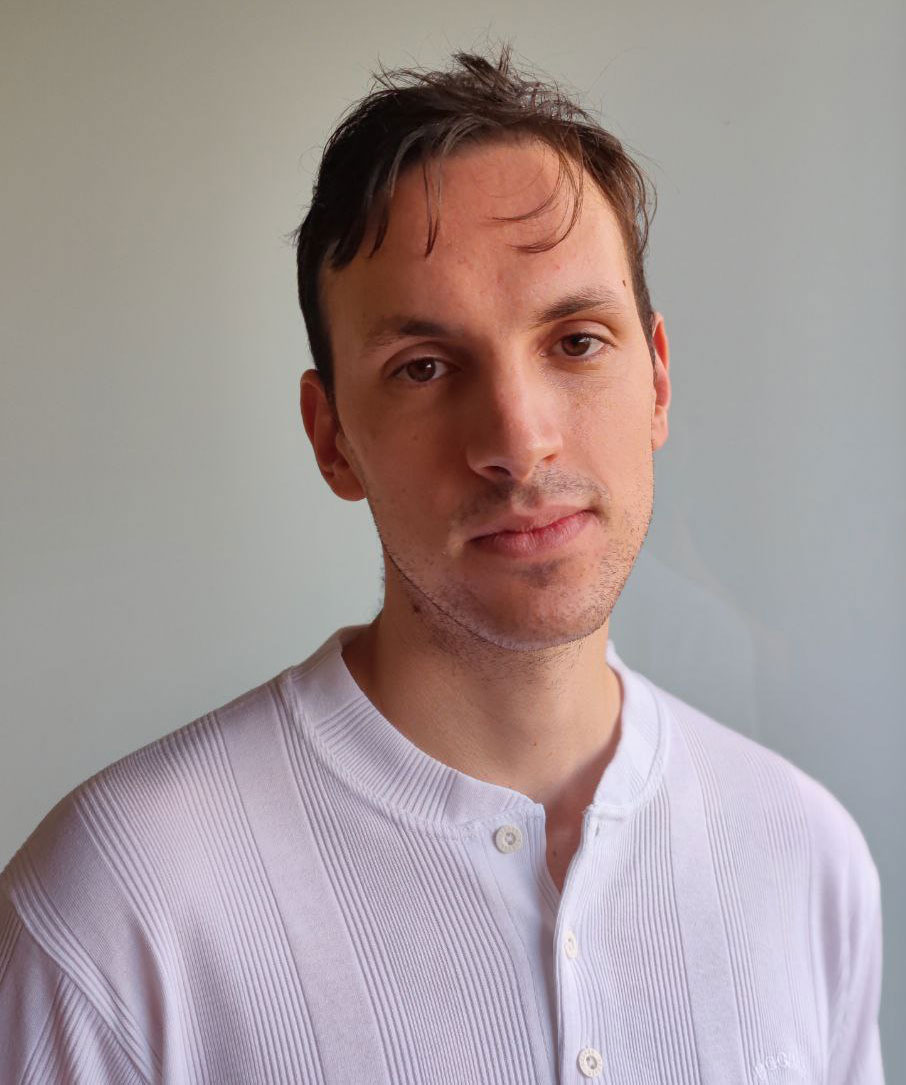
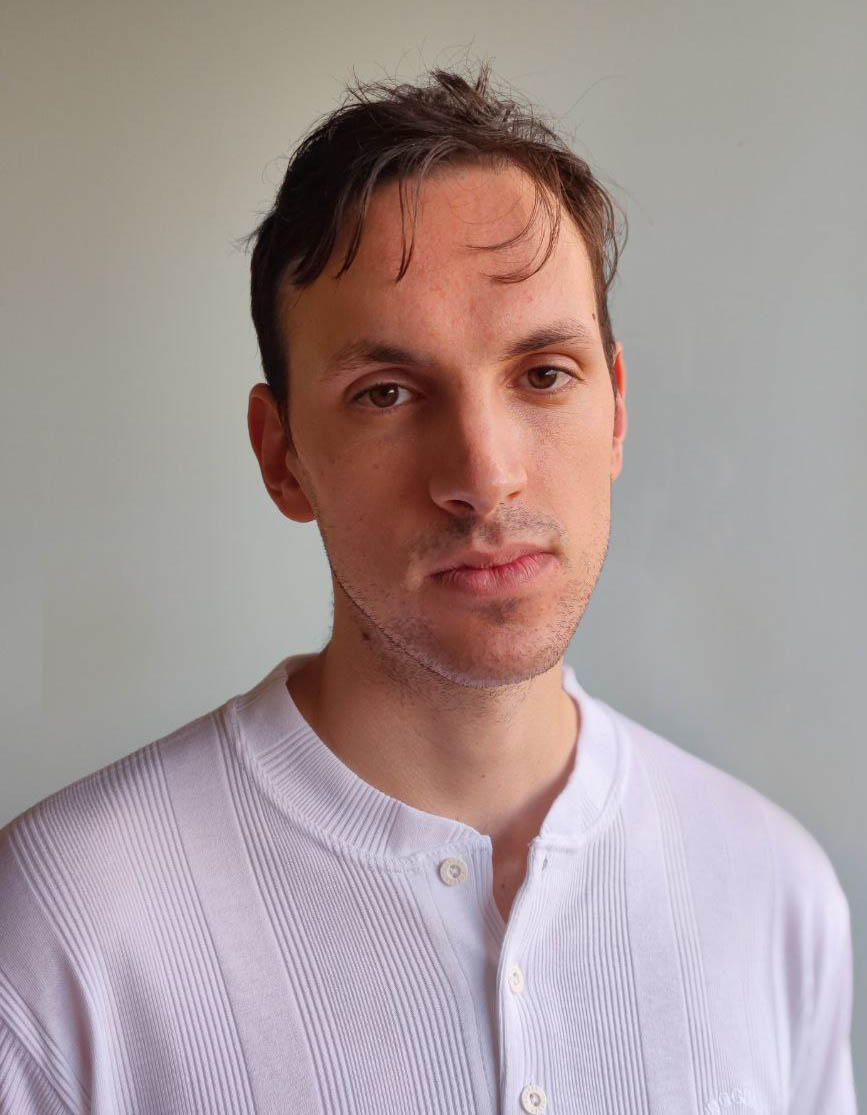
freakit revision

diff --git a/freakitapp/src/App.jsx b/freakitapp/src/App.jsx
@@ -101,13 +101,13 @@ function App() {
         <div className="grid grid-second">
           <img src={mockup} alt="interfaz freakit" className='md:p-10 img-second w-full max-w-[400px] md:max-w-full m-auto' />
           <div className="text-second">
-            <h2 className='text-4xl lg:text-5xl font-medium'>¡Haz amigos con tus mismos intereses!</h2>
-            <p className='py-6 text-xl'>Elige amigos por su personalidad gracias a nuestro test psicológico.</p>
+            <h2 className='text-4xl lg:text-5xl font-medium'>¡Haz amigxs con tus mismos intereses!</h2>
+            <p className='py-6 text-xl'>Elige amigxs por su personalidad gracias a nuestro test psicológico.</p>
           </div>
           <div className='bg-white rounded-[40px] shadow-xl shadow-primary/30 w-fit px-5 lg:px-7 card-second m-auto md:ml-0'>
-            <p className='py-6 text-lg text-center'><b>¡Ya disponible en 4 paises!</b><br />España, México, Chile y Colombia <br />
+            {/*<p className='py-6 text-lg text-center'><b>¡Ya disponible en 4 paises!</b><br />España, México, Chile y Colombia <br />
             <img className='max-w-[250px] w-full m-auto mt-0' src={banderas} alt="banderas de España, México, Chile y Colombia" />
-            </p>
+            </p>*/}
           </div>
         </div>
       </section>
@@ -148,7 +148,7 @@ function App() {
                 <path fillRule="evenodd" d="M7.646 10.854a.5.5 0 0 0 .708 0l2-2a.5.5 0 0 0-.708-.708L8.5 9.293V5.5a.5.5 0 0 0-1 0v3.793L6.354 8.146a.5.5 0 1 0-.708.708l2 2z"/>
                 <path d="M4.406 3.342A5.53 5.53 0 0 1 8 2c2.69 0 4.923 2 5.166 4.579C14.758 6.804 16 8.137 16 9.773 16 11.569 14.502 13 12.687 13H3.781C1.708 13 0 11.366 0 9.318c0-1.763 1.266-3.223 2.942-3.593.143-.863.698-1.723 1.464-2.383zm.653.757c-.757.653-1.153 1.44-1.153 2.056v.448l-.445.049C2.064 6.805 1 7.952 1 9.318 1 10.785 2.23 12 3.781 12h8.906C13.98 12 15 10.988 15 9.773c0-1.216-1.02-2.228-2.313-2.228h-.5v-.5C12.188 4.825 10.328 3 8 3a4.53 4.53 0 0 0-2.941 1.1z"/>
               </svg>
-              <div className='text-primary pl-5'>
+              <div className='text-primary pl-5 flex flex-col justify-center'>
                 <h4 className='text-2xl lg:text-3xl mb-0 lg:mb-2' >Descarga la app</h4>
                 <p className='text-md' >Está disponible para IOS y Android</p>
               </div>
@@ -159,7 +159,7 @@ function App() {
                 <path d="M4 1.5H3a2 2 0 0 0-2 2V14a2 2 0 0 0 2 2h10a2 2 0 0 0 2-2V3.5a2 2 0 0 0-2-2h-1v1h1a1 1 0 0 1 1 1V14a1 1 0 0 1-1 1H3a1 1 0 0 1-1-1V3.5a1 1 0 0 1 1-1h1v-1z"/>
                 <path d="M9.5 1a.5.5 0 0 1 .5.5v1a.5.5 0 0 1-.5.5h-3a.5.5 0 0 1-.5-.5v-1a.5.5 0 0 1 .5-.5h3zm-3-1A1.5 1.5 0 0 0 5 1.5v1A1.5 1.5 0 0 0 6.5 4h3A1.5 1.5 0 0 0 11 2.5v-1A1.5 1.5 0 0 0 9.5 0h-3z"/>
               </svg>
-              <div className='text-primary pl-5'>
+              <div className='text-primary pl-5 flex flex-col justify-center'>
                 <h4 className='text-2xl lg:text-3xl mb-0 lg:mb-2' >Haz el test</h4>
                 <p className='text-md' >Así sabrás a qué personaje de anime te pareces</p>
               </div>
@@ -169,7 +169,7 @@ function App() {
                 <path d="M1 14s-1 0-1-1 1-4 6-4 6 3 6 4-1 1-1 1H1zm5-6a3 3 0 1 0 0-6 3 3 0 0 0 0 6z"/>
                 <path fillRule="evenodd" d="M13.5 5a.5.5 0 0 1 .5.5V7h1.5a.5.5 0 0 1 0 1H14v1.5a.5.5 0 0 1-1 0V8h-1.5a.5.5 0 0 1 0-1H13V5.5a.5.5 0 0 1 .5-.5z"/>
               </svg>
-              <div className='text-primary pl-5'>
+              <div className='text-primary pl-5 flex flex-col justify-center'>
                 <h4 className='text-2xl lg:text-3xl mb-0 lg:mb-2' >Encuentra gente</h4>
                 <p className='text-md' >Mira los perfiles de otros usuarios</p>
               </div>
@@ -178,7 +178,7 @@ function App() {
               <svg xmlns="http://www.w3.org/2000/svg" height="auto" fill="currentColor" className="bi bi-chat-heart" viewBox="0 0 16 16">
                 <path fillRule="evenodd" d="M2.965 12.695a1 1 0 0 0-.287-.801C1.618 10.83 1 9.468 1 8c0-3.192 3.004-6 7-6s7 2.808 7 6c0 3.193-3.004 6-7 6a8.06 8.06 0 0 1-2.088-.272 1 1 0 0 0-.711.074c-.387.196-1.24.57-2.634.893a10.97 10.97 0 0 0 .398-2Zm-.8 3.108.02-.004c1.83-.363 2.948-.842 3.468-1.105A9.06 9.06 0 0 0 8 15c4.418 0 8-3.134 8-7s-3.582-7-8-7-8 3.134-8 7c0 1.76.743 3.37 1.97 4.6a10.437 10.437 0 0 1-.524 2.318l-.003.011a10.722 10.722 0 0 1-.244.637c-.079.186.074.394.273.362a21.673 21.673 0 0 0 .693-.125ZM8 5.993c1.664-1.711 5.825 1.283 0 5.132-5.825-3.85-1.664-6.843 0-5.132Z"/>
               </svg>
-              <div className='text-primary pl-5'>
+              <div className='text-primary pl-5 flex flex-col justify-center'>
                 <h4 className='text-2xl lg:text-3xl mb-0 lg:mb-2' >Chatea</h4>
                 <p className='text-md' >Si ambos os gustáis, It&apos;s a UWU!</p>
               </div>

diff --git a/freakitapp/src/components/TerminosCondiciones.jsx b/freakitapp/src/components/TerminosCondiciones.jsx
@@ -580,13 +580,36 @@ const TerminosCondiciones = () => {
                     suscripciones.
                   </p>
                 </li>
+                <li>
+                  <p>
+                  <b>Suscripciones a través de la Plataforma Apple</b>   <br />
+                  Si realiza la suscripción a freakit a través de la App Store de Apple, tenga en cuenta lo siguiente:
+                  <ul className="list-disc">
+                    <li>
+                  La suscripción se renovará automáticamente a menos que se desactive la renovación automática al menos 24 horas antes del final del período actual.
+                    </li>
+                    <li>
+                    La cuenta se cargará por la renovación dentro de las 24 horas anteriores al final del período actual.
+                    </li>
+                    <li>
+                    Las suscripciones pueden ser gestionadas por el usuario y la renovación automática puede desactivarse accediendo a los Ajustes de la Cuenta del usuario en Apple después de la compra.
+
+                    </li>
+                  </ul>
+                  <br />
+Estos términos están en consonancia con las políticas estándar de suscripción de Apple. Para obtener más detalles o resolver cualquier duda en relación con las suscripciones a través de la App Store, le recomendamos que consulte los Términos y Condiciones de Apple directamente. <br />
+                  <a target="_blank" rel="noreferrer" className='hover:text-purpleF' href="https://www.apple.com/legal/internet-services/itunes/dev/stdeula/">https://www.apple.com/legal/internet-services/itunes/dev/stdeula/</a>
+                  
+                  </p>
+                </li>
               </ol>
+              <br /><br />
               Al utilizar Freakit! y suscribirse a nuestros servicios, Usted
               reconoce haber leído, entendido y aceptado estos Términos y se
               compromete a cumplir con ellos. Si tiene alguna pregunta o
               inquietud, no dude en ponerse en contacto con nuestro equipo.{" "}
               <br /><br />
-              Fecha de entrada en vigencia: 07 de agosto de 2023 <br /><br />
+              Fecha de entrada en vigencia: 30 de octubre de 2023 <br /><br />
               Freakit! S.L
             </p>
           </li>

diff --git a/app/src/components/Cabecera.jsx b/app/src/components/Cabecera.jsx
@@ -1,0 +1,35 @@
+import React from 'react';
+import foto from  '../assets/retrato.jpg';
+import resume from '../assets/Resume-Said.pdf';
+
+const About = () => {
+  return (
+    <section id="about" className="h-100 flex flex-wrap items-center min-h-screen">
+        <div className="aparece grid grid-cols-12 gap-4 w-full">
+            <div className="col-start-2 lg:col-start-3 col-span-10 lg:col-span-9 grid grid-cols-9 gap-4 gap-y-9">
+                <div className="col-span-full md:col-span-4">
+                    <h1 className="text-3xl mb-8 leading-normal">Hi, this is<br /><b>Said Sel-lam Palomino</b>.
+                    <br />I’m a web developer and graphic designer based in Madrid.</h1>
+                    <p className="text-lg">I am a creative and versatile professional with a degree in graphic design and a passion for front-end development. With hands-on experience in React and WordPress, I love crafting visually captivating and user-friendly digital experiences.
+                    </p><p className="text-lg mt-3">
+                    Beyond my technical skills, I have a diverse background in sales, teaching, and customer service, which has instilled in me a deep sense of empathy and adaptability.
+                    </p>
+                    <a href={resume} download="Resume-Said.pdf">
+                        <button className="resume biggie text-xl bg-white rounded-lg py-2 pl-3 pr-4 mt-10 flex hover:border-verde hover:bg-verde hover:text-black">
+                            <svg width="24" height="24" viewBox="0 0 24 24" fill="none" xmlns="http://www.w3.org/2000/svg" className='mr-4'>
+                            <path d="M4 20.3827C4.40471 20.778 4.95361 21 5.52595 21H18.4741C19.0464 21 19.5953 20.778 20 20.3827M12.0012 3V14.9425M12.0012 14.9425L16.9338 10.3793M12.0012 14.9425L7.06859 10.3793" stroke-width="2" stroke-linecap="round" stroke-linejoin="round"/>
+                            </svg>
+                        <span>Resume</span></button>
+                    </a>
+
+                </div>
+                <div className="col-span-full md:col-start-6 md:col-span-4 mt-6 md:mt-0 max-h-[80vh] overflow-hidden">
+                    <img className="" src={foto} alt="self portrait" />
+                </div>
+            </div>
+        </div>
+    </section>
+  )
+}
+
+export default About

diff --git a/elRoble/index.html b/elRoble/index.html
@@ -114,7 +114,7 @@
         <div class="col-5 d-flex flex-column p-6 py-7 align-items-end z-1 media-full media-centre">
             <div class="mw-wd" style="--wd: 400px">
                 <h2 class="title fs-1 mb-4">Terapias y talleres disponibles</h2>
-                <p>Disfruta con un masaje, carga las pilas en una sesión de Reiki o relájate con aromaterapia. Haz click una actividad para saber más. </p>    
+                <p>Disfruta con un masaje, carga las pilas en una sesión de Reiki o relájate con aromaterapia. Haz click una actividad para saber más. </p>
             </div>
         </div>
         <img src="assets/luna-blanca.png" loading="lazy" alt="luna y nubes" class="mw-wd position-absolute bottom-0" style="--wd: 600px;">
@@ -144,7 +144,7 @@
                     <div class="h-50" style="background-image: url(/carousel/ausmet.jpg);"></div>
                     <div class="h-50 p-5 bg-tone" style="--bg: var(--palo)">
                         <h4 class="fw-bold mb-3 fs-4">Voluntarios en AUSMET</h4>
-                        <p class="fs-5">Meditación, reiki y grafoterapia en la Asociación Mostoleña de Esclerosis Múltiple.</p>
+                        <p class="fs-5">Meditación, reiki y grafoterapia en la Asociación de Usuarios de Salud Mental de Móstoles.</p>
                     </div>
                 </li>
                 <li class="d-flex flex-column h-100">

diff --git a/repositorio/qr.html b/repositorio/qr.html
@@ -1,0 +1,40 @@
+<!DOCTYPE html>
+<html lang="en">
+<head>
+    <meta charset="UTF-8">
+    <meta name="viewport" content="width=device-width, initial-scale=1.0">
+    <title>Document</title>
+    <style>
+        * {
+            box-sizing: border-box;
+            font-family: sans-serif;
+        }
+    </style>
+</head>
+<body>
+    <p>Use: https://wa.me/34XXXXXXXXX</p>
+    <form id="formulario" style="display: flex; flex-direction: column;">
+        <input type="text" id="link">
+        <input type="range" id="range" min="10" max="500">
+        <input type="submit" value="generarQR">
+    </form>
+    <img src="" alt="Código QR">
+
+    <script type="text/javascript">
+        const formEl = document.querySelector('#formulario')
+        const linkEl = document.querySelector('#link')
+        const rangeEl = document.querySelector('#range')
+        const imgEl = document.querySelector('img')
+
+        function generarQR(link, dimensiones = 300) {
+            imgEl.src = `https://chart.googleapis.com/chart?cht=qr&chs=${dimensiones}x${dimensiones}&chl=${link}`
+        }
+
+        formEl.addEventListener('submit', (e) => {
+            e.preventDefault()
+            generarQR(linkEl.value, rangeEl.value.toString())
+            console.log(rangeEl)
+        })
+    </script>
+</body>
+</html>

diff --git a/app/src/App.jsx b/app/src/App.jsx
@@ -1,7 +1,7 @@
 import React, { useEffect  } from 'react'
 import './App.css';
 import NavBar from './components/NavBar';
-import Hero from './components/Hero';
+import Hero from './components/Cabecera';
 import Work from './components/Work';
 import Freakit from './components/FreakitPage'
 import Roble from './components/RoblePage';

diff --git a/elRoble/estilos.css b/elRoble/estilos.css
@@ -215,3 +215,8 @@ h1 {
         padding: 5px !important;
     }
 }
+
+.bg-hero {
+    background: rgb(255,229,193);
+background: linear-gradient(0deg, rgba(170,235,255,1) 0%, rgba(249,212,229,1) 59%);
+}

diff --git a/app/src/components/Hero.jsx b/app/src/components/Hero.jsx
@@ -1,5 +1,4 @@
 
-import React, { useState, useEffect, useRef } from 'react';
 
 const Hero = () => {
 
